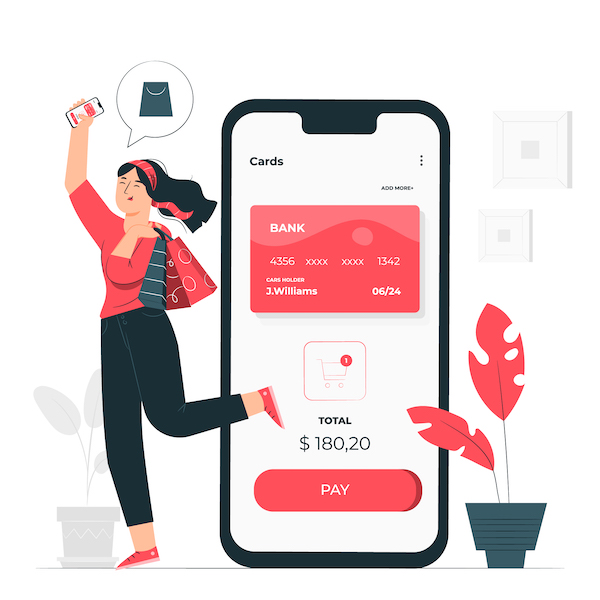
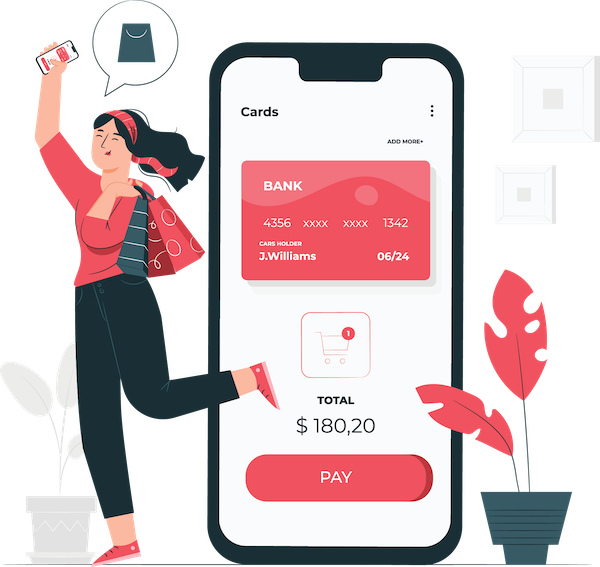
Cambio de imagenes

diff --git a/src/app/components/page-home01/page-home01.component.html b/src/app/components/page-home01/page-home01.component.html
@@ -115,11 +115,8 @@
           <figure class="mbl-scrn2">
             <img src="assets/images/mbl-scrn2.png" alt="" >
           </figure> -->
-            <img src="assets/images/an1/1.png" alt="" class="an1 animg1 leaf">
-            <img src="assets/images/an1/2.png" alt="" class="an1 animg2">
-            <img src="assets/images/an1/3.png" alt="" class="an1 animg3">
-            <img src="assets/images/an1/5.png" alt="" class="an1 animg5">
-            <img src="assets/images/an1/4.png" alt="" class="an1 animg4">
+
+            <img src="assets/images/an1/4.png">
 
 
           </div>
@@ -178,7 +175,7 @@
             <img src="assets/images/an3/4.png" alt="" class="an3">
             <img src="assets/images/an3/5.png" alt="" class="an3">
             <img src="assets/images/an3/6.png" alt="" class="an3">
-            <img src="assets/images/transaccion.jpg" alt="">
+            <img src="assets/images/pago_transparente.png" alt="">
 
           </figure>
         </div>
